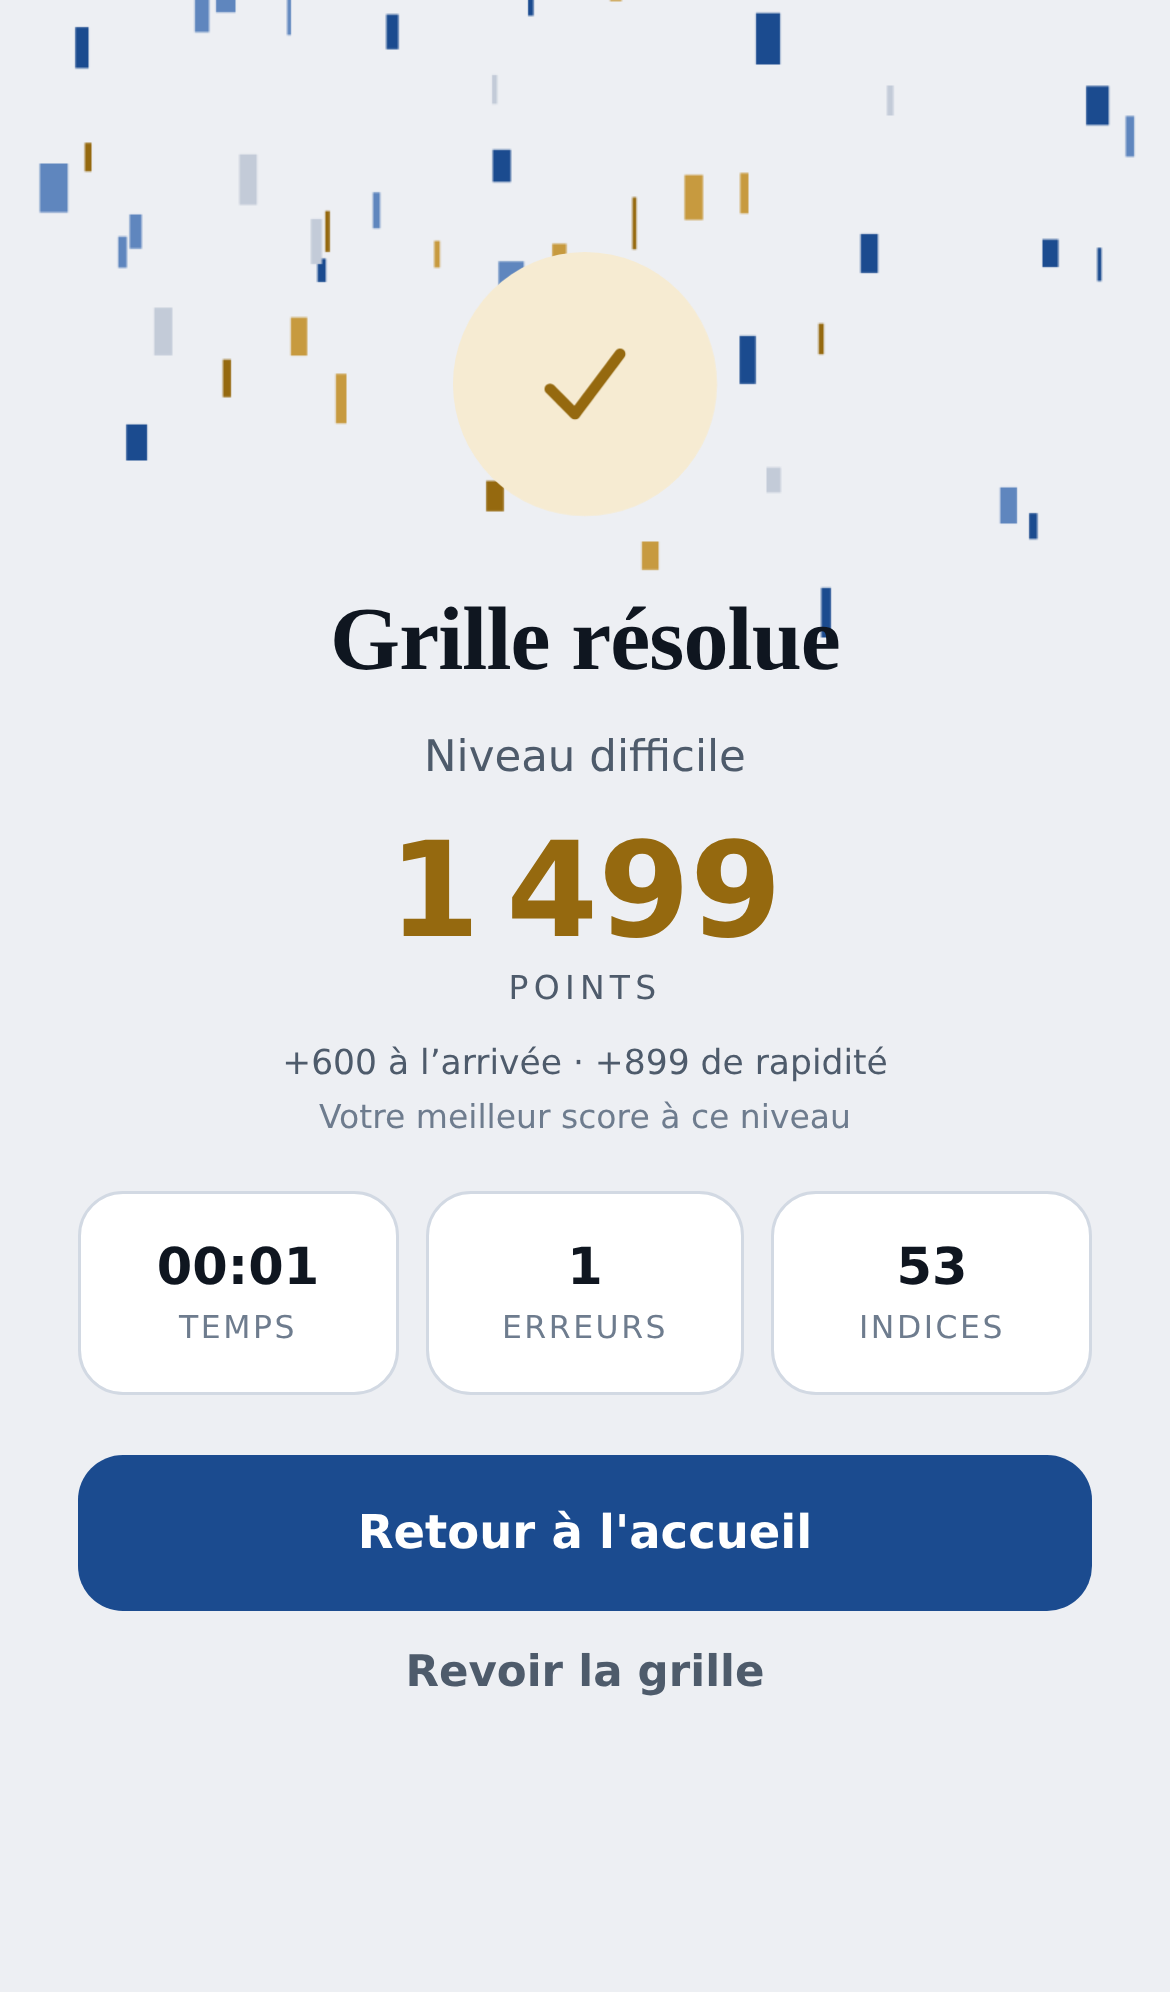
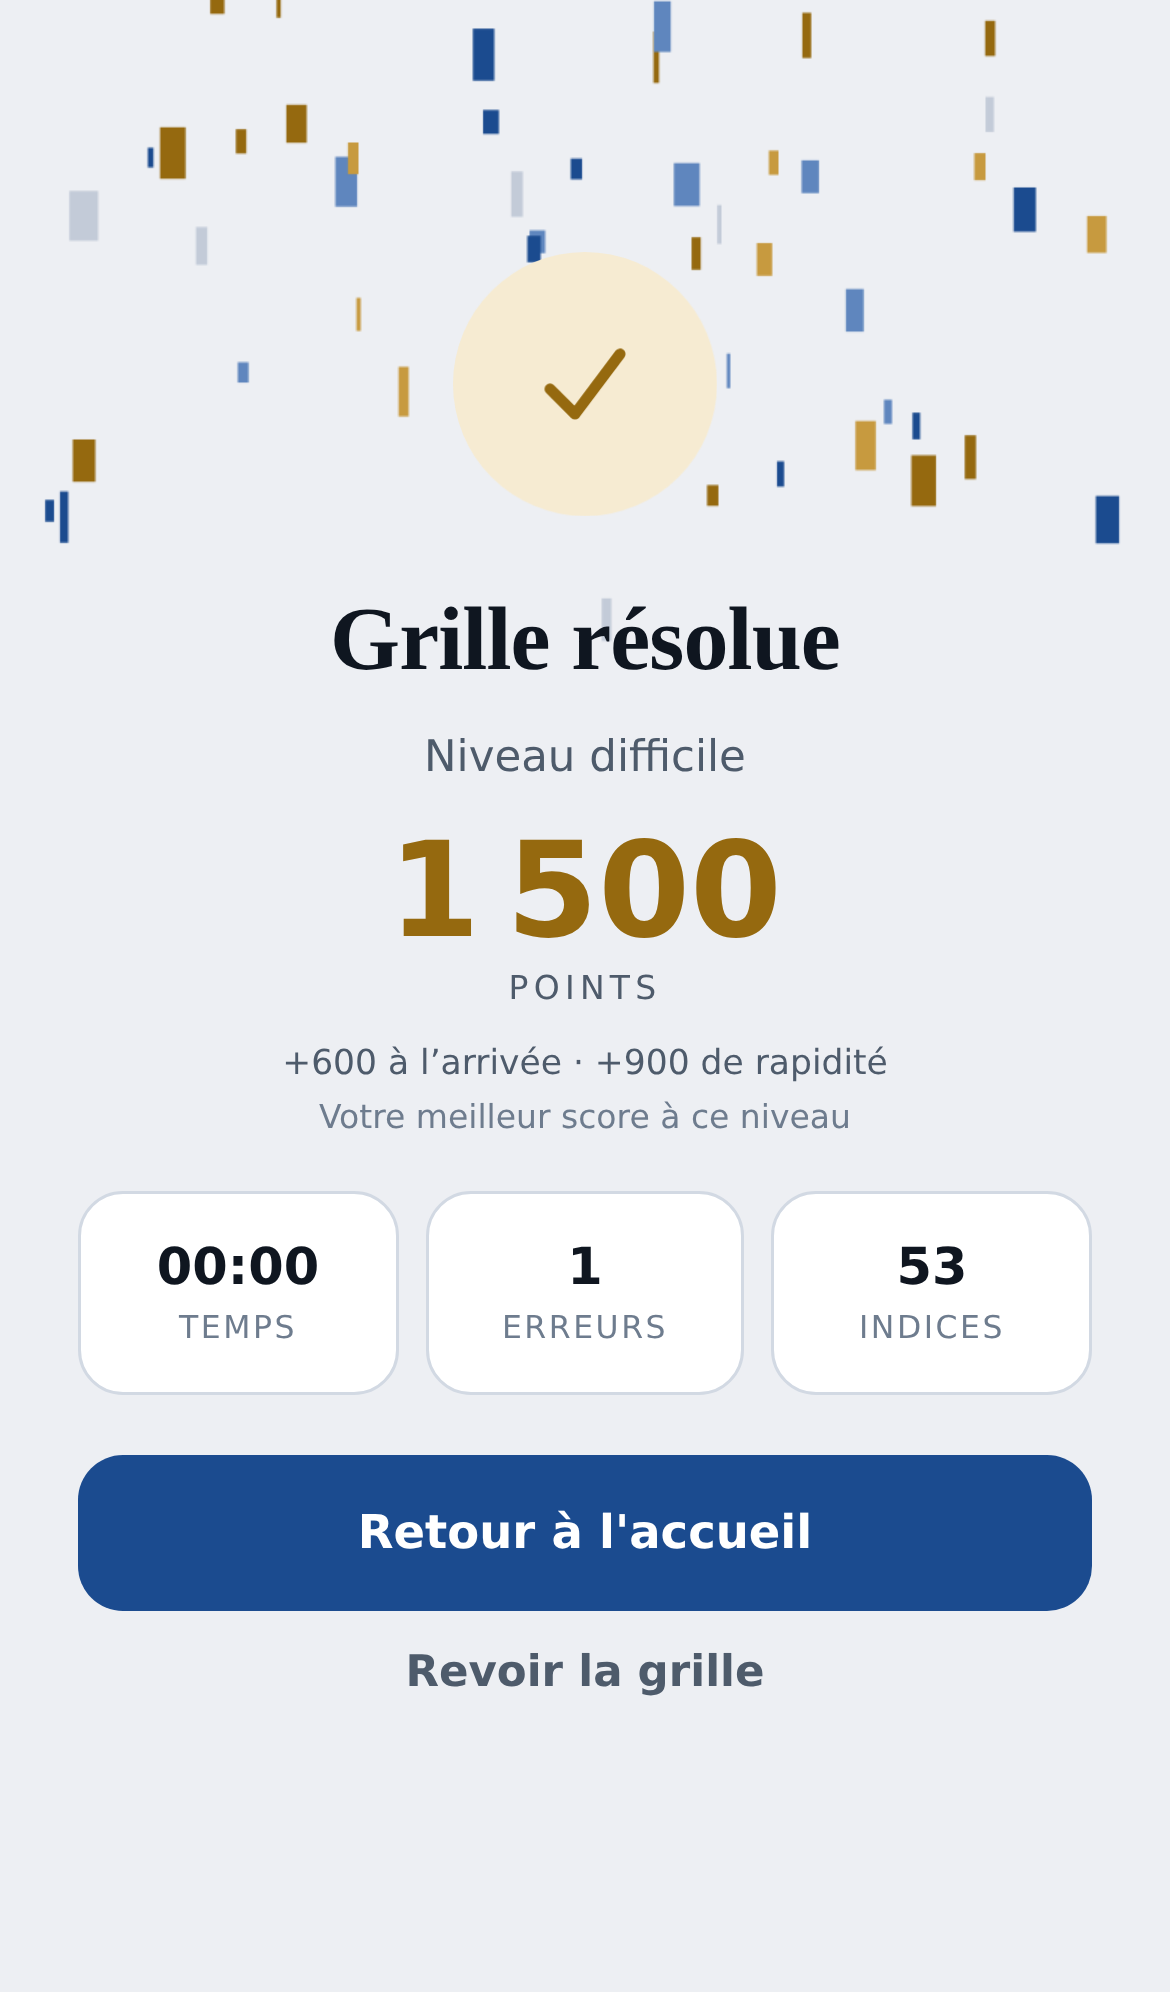
Une partie complète ajoutée à la batterie de vérification
La revue finale n'a rien trouvé à corriger dans le jeu : elle a surtout montré
qu'aucune suite ne jouait une partie de bout en bout au doigt. C'est comblé.

webpartie.test.js enchaîne, sur une grille Difficile : notes posées au verrou,
saisie au pavé, erreur volontaire signalée en rouge, gomme, annulation (qui
remet bien le chiffre faux), indice qui refuse alors d'avancer et signale la
case, effacement, reprise après avoir quitté (score et erreurs conservés),
puis victoire — statistiques créditées, sauvegarde nettoyée, temps obtenu aux
indices non retenu comme record.

Vingt-deux suites au vert. Jeu inchangé, toujours en 1.9.1.

diff --git a/Tools/EngineCheck/webpartie.test.js b/Tools/EngineCheck/webpartie.test.js
@@ -1,0 +1,105 @@
+/* Une vraie partie, jouée comme une joueuse : sélection de cases, saisie au
+   pavé, notes au verrou, une erreur, une annulation, la gomme, un indice,
+   puis la victoire — et on vérifie score, statistiques et sauvegarde. */
+const { chromium, devices } = require('playwright');
+(async () => {
+  const b = await chromium.launch({ executablePath: process.env.CHROMIUM_PATH || '/opt/pw-browsers/chromium-1194/chrome-linux/chrome' });
+  const ctx = await b.newContext({ ...devices['iPhone 13'], offline: true });
+  const page = await ctx.newPage();
+  let fails = 0;
+  const check = (c, m) => { if (!c) { fails++; console.log('  ECHEC:', m); } };
+  page.on('pageerror', e => { fails++; console.log('  EXCEPTION:', e.message); });
+  await page.goto('file://' + require('path').join(__dirname, '../../Web/index.html'));
+  await page.waitForSelector('#levelList button');
+  await page.locator('#levelList button').nth(2).click();          // Difficile
+  await page.waitForFunction(() => !document.querySelector('#loading').classList.contains('on'), null, { timeout: 60000 });
+  const cell = i => page.locator('#board .cell').nth(i);
+  const key = d => page.locator('#pad .key').nth(d - 1);
+  const etat = () => page.evaluate(() => ({ pts: G.points, err: G.mistakes, ind: G.hints, vides: G.values.filter(v => v === 0).length }));
+
+  // notes au verrou sur trois cases
+  const libres = await page.evaluate(() => G.values.map((v, i) => (v === 0 && !isGiven(i)) ? i : -1).filter(i => i >= 0));
+  await page.locator('#toolNotes').click();
+  await key(7).click();
+  for (const i of libres.slice(0, 3)) { await cell(i).click(); await page.waitForTimeout(40); }
+  const notes3 = await page.evaluate(l => l.slice(0, 3).map(i => (G.notes[i] >> 7) & 1), libres);
+  check(notes3.every(x => x === 1), 'les notes au verrou ne se posent pas : ' + JSON.stringify(notes3));
+  await page.locator('#toolNotes').click();                        // retour en saisie
+
+  // une saisie correcte au pavé
+  const c0 = libres[5];
+  await cell(c0).click();
+  const bon = await page.evaluate(i => G.puzzle.solution[i], c0);
+  await key(bon).click();
+  await page.waitForTimeout(120);
+  const apres1 = await etat();
+  check(await page.evaluate(i => G.values[i], c0) === bon, 'la saisie ne pose pas le chiffre');
+  check(apres1.pts > 0, 'aucun point pour une bonne case');
+
+  // une erreur volontaire, puis correction
+  const c1 = libres[6];
+  await cell(c1).click();
+  const faux = await page.evaluate(i => (G.puzzle.solution[i] % 9) + 1, c1);
+  await key(faux).click();
+  await page.waitForTimeout(150);
+  const apres2 = await etat();
+  check(apres2.err === 1, 'l’erreur n’est pas comptée');
+  check(await cell(c1).evaluate(e => e.classList.contains('err')), 'le chiffre faux n’est pas signalé');
+  await page.locator('#toolErase').click();
+  await page.waitForTimeout(100);
+  check(await page.evaluate(i => G.values[i], c1) === 0, 'la gomme n’efface pas le chiffre faux');
+
+  // annulation : on revient sur la bonne saisie
+  await page.locator('#toolUndo').click();
+  await page.waitForTimeout(120);
+
+  // un indice
+  await page.locator('#toolHint').click();
+  await page.waitForTimeout(200);
+  await page.locator('#toolHint').click();
+  await page.waitForTimeout(200);
+  const apres3 = await etat();
+  check(apres3.ind >= 1, 'l’indice n’est pas compté');
+
+  // sauvegarde puis reprise en cours de partie
+  await page.locator('#btnBack').click();
+  await page.waitForTimeout(300);
+  check(await page.locator('#resumeCard').isVisible(), 'la carte de reprise est absente');
+  await page.locator('#resumeCard').click();
+  await page.waitForTimeout(400);
+  const repris = await etat();
+  check(repris.pts === apres3.pts && repris.err === apres3.err, 'la reprise perd le score ou les erreurs');
+
+  // l'annulation a remis le chiffre faux : l'indice doit refuser d'avancer
+  const faussesAvant = await page.evaluate(() => G.values.filter((v, i) => v !== 0 && v !== G.puzzle.solution[i]).length);
+  check(faussesAvant === 1, 'l’annulation n’a pas restauré le chiffre faux');
+  const avantIndice = await page.evaluate(() => G.values.filter(v => v !== 0).length);
+  await page.locator('#toolHint').click();
+  await page.waitForTimeout(200);
+  check(await page.evaluate(() => G.values.filter(v => v !== 0).length) === avantIndice,
+        'l’indice avance alors qu’une case fausse traîne');
+  check(await page.locator('#hintBanner').isVisible(), 'l’indice ne signale pas la case fausse');
+  console.log('  indice sur grille fausse : il signale au lieu d’avancer');
+
+  // on efface les cases fausses (comme le ferait la joueuse) puis on termine
+  await page.evaluate(() => {
+    G.values.forEach((v, i) => { if (v !== 0 && !isGiven(i) && v !== G.puzzle.solution[i]) { G.sel = i; erase(); } });
+    let g = 0; while (!G.complete && g++ < 400) useHint();
+  });
+  await page.waitForTimeout(700);
+  check(await page.locator('#victory.on').isVisible(), 'écran de victoire absent');
+  const bilan = await page.evaluate(() => ({
+    stats: JSON.parse(localStorage.getItem('zen.stats') || '{}'),
+    partie: localStorage.getItem('zen.game'),
+    pts: +document.getElementById('vicPoints').textContent.replace(/\s/g, '')
+  }));
+  check(bilan.stats.hard && bilan.stats.hard.won === 1, 'victoire non enregistrée');
+  check(bilan.stats.hard.best === null, 'un temps obtenu aux indices est devenu un record');
+  check(bilan.partie === null, 'la partie terminée reste en sauvegarde');
+  check(bilan.pts > 0, 'aucun point à l’arrivée');
+  console.log('  partie complète : ' + bilan.pts + ' points, ' + bilan.stats.hard.played + ' partie(s) comptée(s)');
+
+  await b.close();
+  console.log(fails ? '\n' + fails + ' PROBLEME(S)' : '\nPARTIE REELLE : saisie, notes au verrou, erreur, gomme, annulation, indice, reprise, victoire');
+  process.exit(fails ? 1 : 0);
+})().catch(e => { console.error(e); process.exit(1); });

diff --git a/Tools/EngineCheck/README.md b/Tools/EngineCheck/README.md
@@ -26,6 +26,7 @@ ajoutée est prise en compte sans rien déclarer.
 | `webladder.test.js` | échelle de difficulté : palier exigé et nombre de murs croissants, profil mesuré niveau par niveau |
 | `webgrid.test.js` | hauteur des neuf lignes de la grille, y compris une ligne vide ou seulement annotée |
 | `weblandscape.test.js` | téléphone couché : accueil, feuille de statistiques et écran de victoire utilisables |
+| `webpartie.test.js` | une partie de bout en bout comme au doigt : saisie, notes au verrou, erreur, gomme, annulation, indice, reprise, victoire |
 | `webui.test.js` | parcours complet sur iPhone : accueil, partie, notes, indices, victoire |
 | `webultimate.test.js` | Démoniaque, Titan, Légende : annulation, fourchette, partie entière, statistiques, version |
 | `webregress.test.js` | revue de non-régression des corrections passées, tailles de la barre et du pavé, disposition en paysage |
